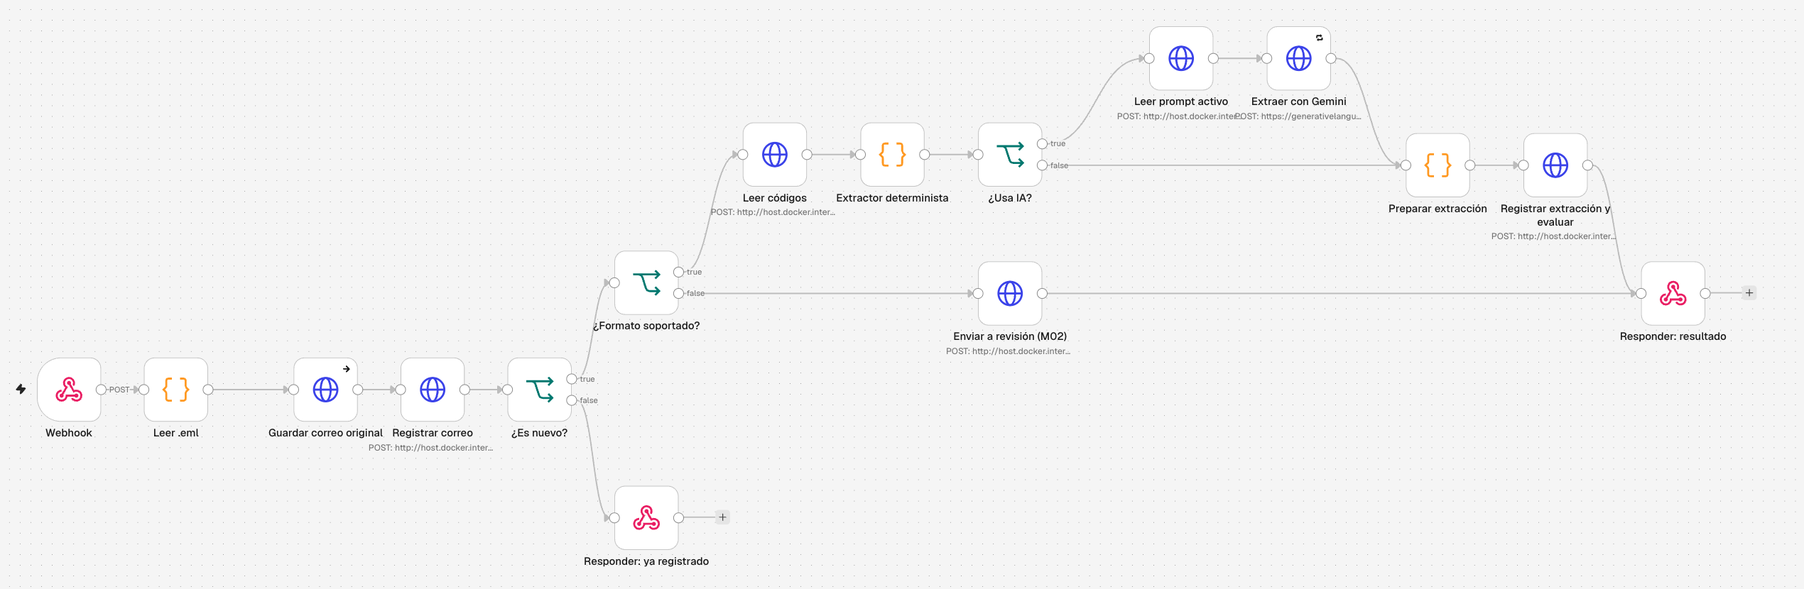
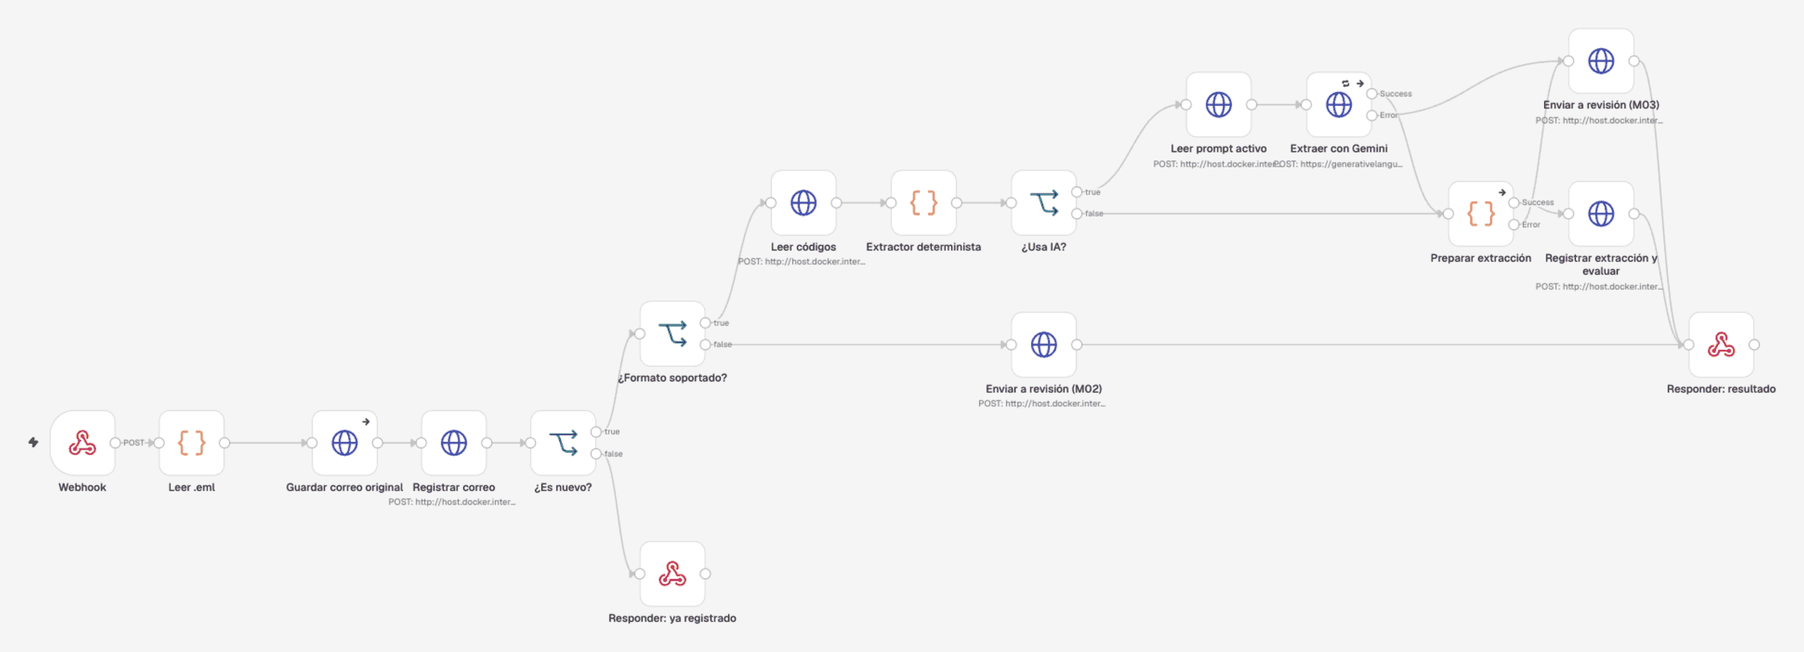
Publish the clean v1.1 pass and report Gemini outages separately

diff --git a/site/index.html b/site/index.html
@@ -317,7 +317,7 @@ footer li span { display: block; color: #DCE8E9; font-size: 1rem; }
         <figcaption><strong>Un pedido dudoso.</strong> Es el mismo del principio: la persona ve la frase del cliente y elige.</figcaption>
       </figure>
       <figure class="miniatura">
-        <a href="img/flujo-n8n.png"><img src="img/flujo-n8n.png" width="2540" height="830" loading="lazy" alt="Flujo de n8n, del correo al resultado. Abre la imagen a tamaño completo."></a>
+        <a href="img/flujo-n8n.png"><img src="img/flujo-n8n.png" width="2540" height="919" loading="lazy" alt="Flujo de n8n, del correo al resultado. Abre la imagen a tamaño completo."></a>
         <figcaption><strong>El flujo en n8n.</strong> La evaluación entra por este mismo flujo. <a href="img/flujo-n8n.png">Ver a tamaño completo</a></figcaption>
       </figure>
     </div>
@@ -335,16 +335,16 @@ footer li span { display: block; color: #DCE8E9; font-size: 1rem; }
       </ul>
       <svg class="grafico" height="246" role="img" aria-labelledby="gt gd">
         <title id="gt">Resultados de los 20 correos por configuración</title>
-        <desc id="gd">Solo reglas: 7 OK, 5 ACEPTABLE, 8 FALLO. Solo IA: 15 OK, 1 ACEPTABLE, 4 FALLO. Híbrido: 15 OK, 4 ACEPTABLE, 1 FALLO.</desc>
+        <desc id="gd">Solo reglas: 7 OK, 5 ACEPTABLE, 8 FALLO. Solo IA: 19 OK, 1 ACEPTABLE, 0 FALLO. Híbrido: 16 OK, 4 ACEPTABLE, 0 FALLO.</desc>
         <g font-size="17" font-weight="700" fill="#14272E"><text x="0" y="18" class="rotulo">Solo reglas</text><text x="0" y="102" class="rotulo">Solo IA</text><text x="0" y="186" class="rotulo">Híbrido</text></g>
         <g stroke="#E7ECEB" stroke-width="2">
           <rect x="0" y="28" width="35%" height="36" fill="#0E74A8"/><rect x="35%" y="28" width="25%" height="36" fill="#C98315"/><rect x="60%" y="28" width="40%" height="36" fill="#B3261E"/>
-          <rect x="0" y="112" width="75%" height="36" fill="#0E74A8"/><rect x="75%" y="112" width="5%" height="36" fill="#C98315"/><rect x="80%" y="112" width="20%" height="36" fill="#B3261E"/>
-          <rect x="0" y="196" width="75%" height="36" fill="#0E74A8"/><rect x="75%" y="196" width="20%" height="36" fill="#C98315"/><rect x="95%" y="196" width="5%" height="36" fill="#B3261E"/>
+          <rect x="0" y="112" width="95%" height="36" fill="#0E74A8"/><rect x="95%" y="112" width="5%" height="36" fill="#C98315"/>
+          <rect x="0" y="196" width="80%" height="36" fill="#0E74A8"/><rect x="80%" y="196" width="20%" height="36" fill="#C98315"/>
         </g>
         <g font-size="17" font-weight="700" text-anchor="middle">
-          <g fill="#fff"><text x="17.5%" y="52">7</text><text x="80%" y="52">8</text><text x="37.5%" y="136">15</text><text x="90%" y="136">4</text><text x="37.5%" y="220">15</text><text x="97.5%" y="220">1</text></g>
-          <g fill="#14272E"><text x="47.5%" y="52">5</text><text x="77.5%" y="136">1</text><text x="85%" y="220">4</text></g>
+          <g fill="#fff"><text x="17.5%" y="52">7</text><text x="80%" y="52">8</text><text x="47.5%" y="136">19</text><text x="40%" y="220">16</text></g>
+          <g fill="#14272E"><text x="47.5%" y="52">5</text><text x="97.5%" y="136">1</text><text x="90%" y="220">4</text></g>
         </g>
       </svg>
       <div class="desliza" tabindex="0" role="region" aria-label="Tabla de resultados">
@@ -352,17 +352,17 @@ footer li span { display: block; color: #DCE8E9; font-size: 1rem; }
         <thead><tr><th scope="col">Configuración</th><th scope="col" class="num">OK</th><th scope="col" class="num">ACEPTABLE</th><th scope="col" class="num">FALLO</th><th scope="col" class="num">Automáticos erróneos o indebidos</th></tr></thead>
         <tbody>
           <tr><th scope="row">Solo reglas</th><td class="num">7</td><td class="num">5</td><td class="num">8</td><td class="num">8 de 11</td></tr>
-          <tr><th scope="row">Solo IA</th><td class="num">15</td><td class="num">1</td><td class="num">4</td><td class="num">0 de 9</td></tr>
-          <tr><th scope="row">Híbrido</th><td class="num">15</td><td class="num">4</td><td class="num">1</td><td class="num">0 de 8</td></tr>
+          <tr><th scope="row">Solo IA</th><td class="num">19</td><td class="num">1</td><td class="num">0</td><td class="num">0 de 12</td></tr>
+          <tr><th scope="row">Híbrido</th><td class="num">16</td><td class="num">4</td><td class="num">0</td><td class="num">0 de 9</td></tr>
         </tbody>
       </table>
       </div>
       <p class="nota">ACEPTABLE es una salida segura que no era la esperada: el caso llega a una persona. La última columna son pedidos creados sin intervención con algún error, o que tenían que ir a revisión.</p>
       <ul>
         <li><strong>Las reglas solas no valen.</strong> Dejan líneas fuera y crean el pedido sin avisar.</li>
-        <li><strong>Cuando la IA contesta, sola sale algo mejor que el híbrido.</strong> El segundo lector no evitó ningún pedido equivocado y costó tres revisiones de más. Es el precio de un seguro, y con tan pocos casos no se sabe si compensa.</li>
-        <li><strong>Los 5 FALLO con IA son caídas de Gemini</strong> (saturado, error 503), no lecturas equivocadas: los cinco correos quedaron en la cola. En una pasada anterior fueron 10, y también se publica.</li>
+        <li><strong>En estos casos, solo IA sale algo mejor que el híbrido.</strong> El segundo lector no evitó ningún pedido equivocado y costó tres revisiones de más. Es el precio de un seguro, y con tan pocos casos no se sabe si compensa.</li>
         <li><strong>El caso que fallaba en la v1 ya no falla:</strong> un cliente que corrige el código de un producto a mitad de línea. Solo IA crea el pedido correcto; el híbrido lo manda a una persona.</li>
+        <li><strong>Con Gemini caído, los pedidos llegan a la cola.</strong> En dos pasadas anteriores, con el servicio saturado, 15 casos acabaron así y ninguno creó un pedido.</li>
       </ul>
       <p><a href="https://github.com/davidlarre/b2b-order-intake-automation-case-study/blob/main/eval/resultados-v1-1.md">Resultados v1.1, caso a caso</a> · <a href="https://github.com/davidlarre/b2b-order-intake-automation-case-study/blob/main/eval/resultados-v1.md">Resultados v1, con los fallos uno a uno</a></p>
     </div>
@@ -374,9 +374,9 @@ footer li span { display: block; color: #DCE8E9; font-size: 1rem; }
     <h2>Los límites</h2>
     <div class="texto">
       <ul>
-        <li><strong>Son 20 correos de desarrollo.</strong> 7 sirvieron para construir el sistema y 13 se escribieron conociéndolo. No hay un conjunto de prueba guardado aparte. Con 0 errores en 8 pedidos automáticos, el error real podría llegar al 38 %.</li>
+        <li><strong>Son 20 correos de desarrollo.</strong> 7 sirvieron para construir el sistema y 13 se escribieron conociéndolo. No hay un conjunto de prueba guardado aparte. Con 0 errores en 9 pedidos automáticos, el error real podría llegar a 1 de cada 3.</li>
         <li><strong>Los 13 correos nuevos y sus etiquetas los escribió una IA (Claude).</strong> Una segunda instancia de Claude, que no las escribió, revisó las 13 etiquetas, sin cambios. Todavía no hay revisión humana.</li>
-        <li><strong>Faltan piezas.</strong> Distinguir un pedido de una consulta, detectar duplicados, comprobar cajas y unidades, leer PDF y enviar respuestas al cliente. Hoy, una consulta con código y cantidad podría acabar en pedido.</li>
+        <li><strong>Faltan piezas.</strong> Distinguir un pedido de una consulta, detectar duplicados, comprobar cajas y unidades, leer PDF y enviar respuestas al cliente. Hoy, una consulta con código y cantidad podría acabar en pedido. Y si la IA no responde, el sistema no lo reintenta más tarde: el pedido se queda en la cola.</li>
         <li><strong>El ahorro no está demostrado.</strong> Depende de cuánto se tarde en revisar cada pedido dudoso, y eso solo lo dice un piloto con el equipo.</li>
       </ul>
     </div>

diff --git a/eval/resultados-v1-1.md b/eval/resultados-v1-1.md
@@ -9,50 +9,48 @@
 
 ## Resumen
 
-Pasada 2, completa. Es la que se publica como v1.1 (ver [las dos pasadas](#las-dos-pasadas)).
+Es la pasada 3, la **pasada limpia**: las tres configuraciones de una vez y ningún caso en M03 (ver [qué pasada se publica](#qué-pasada-se-publica)).
 
-| Configuración | OK | ACEPTABLE | FALLO | De ellos, M03 | Pedidos automáticos | Automáticos erróneos o indebidos |
+| Configuración | OK | ACEPTABLE | FALLO | M03 (servicio caído) | Pedidos automáticos | Automáticos erróneos o indebidos |
 |---|---|---|---|---|---|---|
 | Solo reglas | 7 | 5 | 8 | 0 | 11 | **8** |
-| Solo IA | 15 | 1 | 4 | 4 | 9 | **0** |
-| Híbrido | 15 | 4 | 1 | 1 | 8 | **0** |
+| Solo IA | 19 | 1 | 0 | 0 | 12 | **0** |
+| Híbrido | 16 | 4 | 0 | 0 | 9 | **0** |
 
 En la v1:
 
-| Configuración | OK | ACEPTABLE | FALLO | De ellos, M03 | Pedidos automáticos | Automáticos erróneos o indebidos |
+| Configuración | OK | ACEPTABLE | FALLO | M03 (servicio caído) | Pedidos automáticos | Automáticos erróneos o indebidos |
 |---|---|---|---|---|---|---|
 | Solo reglas | 7 | 5 | 8 | 0 | 11 | **8** |
 | Solo IA | 18 | 1 | 1 | 0 | 11 | **0** |
 | Híbrido | 16 | 3 | 1 | 0 | 9 | **0** |
 
-OK, ACEPTABLE y FALLO significan lo mismo que en la [v1](resultados-v1.md#resumen). Un M03 cuenta como FALLO aunque el caso llegue a una persona: las etiquetas no lo preveían y no se han cambiado.
+OK, ACEPTABLE y FALLO significan lo mismo que en la [v1](resultados-v1.md#resumen). M03 va en su propia columna: el servicio no respondió, y el caso llegó a una persona.
 
 ## Qué se puede concluir
 
-1. **El caso 16 ya no falla.** Con solo IA crea el pedido correcto (TUE-M10-ZN × 400). En el híbrido va a revisión solo con R12, porque el determinista sigue leyendo el código sin corregir: es ACEPTABLE. Ha salido igual en las dos pasadas.
-2. **Los 5 FALLO con IA son M03:** Gemini respondió "503, alta demanda" y se agotaron los reintentos (4 en solo IA y 1 en el híbrido). Antes, esos correos habrían parado el flujo; ahora los cinco están en la cola.
-3. **En las 31 llamadas que Gemini contestó, de 36, no hay ningún FALLO.**
-4. **Los totales no son directamente comparables con la v1:** entonces Gemini no falló en esa pasada. La peor cifra de OK de la v1.1 (solo IA, 15 frente a 18) sale de los 503; el caso 16, en cambio, mejora. Por eso se compara caso a caso.
-5. **Solo reglas no cambia:** no usa la IA, y los 20 casos salen igual.
+1. **El caso 16 ya no falla.** Con solo IA crea el pedido correcto (TUE-M10-ZN × 400). En el híbrido va a revisión solo con R12, porque el determinista sigue leyendo el código sin corregir: es ACEPTABLE. Ha salido igual en las tres pasadas.
+2. **Es el único cambio.** Los demás casos salen como en la v1 en las tres configuraciones.
+3. **"Solo IA" sigue saliendo mejor que el híbrido:** 06, 15 y 16 son tres revisiones que no hacían falta, y R12 no evitó ningún pedido equivocado. Lo dicho en la [v1](resultados-v1.md#qué-se-puede-concluir) sobre esa red se mantiene.
 
 ## Comparación con la v1, caso a caso
 
-v1 → v1.1 (pasada 2). "Igual" quiere decir misma nota, misma salida y mismos motivos.
+v1 → v1.1. "Igual" quiere decir misma nota, misma salida y mismos motivos.
 
 | Correo | Solo reglas | Solo IA | Híbrido |
 |---|---|---|---|
 | 01-automatico | igual: **FALLO** · automático | igual: OK · automático | igual: OK · automático |
 | 02-remitente-desconocido | igual: OK · revisión R02 | igual: OK · revisión R02 | igual: OK · revisión R02 |
-| 03-precio-distinto | igual: **FALLO** · automático | OK · revisión R11 → **FALLO** · revisión M03 | igual: OK · revisión R11 |
+| 03-precio-distinto | igual: **FALLO** · automático | igual: OK · revisión R11 | igual: OK · revisión R11 |
 | 04-excel-xlsx | igual: OK · automático | igual: OK · automático | igual: OK · automático |
 | 05-excel-xls | igual: OK · revisión M02 | igual: OK · revisión M02 | igual: OK · revisión M02 |
 | 06-discrepancia | igual: **FALLO** · automático | igual: OK · automático | igual: ACEPTABLE · revisión R12 |
 | 07-adjunto-sin-adjunto | igual: ACEPTABLE · revisión M01 | igual: ACEPTABLE · revisión M01 | igual: ACEPTABLE · revisión M01 |
-| 08-texto-catalan | igual: OK · automático | OK · automático → **FALLO** · revisión M03 | igual: OK · automático |
-| 09-equivalencias | igual: ACEPTABLE · revisión M01 | OK · automático → **FALLO** · revisión M03 | igual: OK · automático |
+| 08-texto-catalan | igual: OK · automático | igual: OK · automático | igual: OK · automático |
+| 09-equivalencias | igual: ACEPTABLE · revisión M01 | igual: OK · automático | igual: OK · automático |
 | 10-punto-de-miles | igual: **FALLO** · automático | igual: OK · automático | igual: OK · automático |
 | 11-multiplicacion | igual: **FALLO** · automático | igual: OK · automático | igual: OK · automático |
-| 12-excel-con-precios | igual: OK · automático | OK · automático → **FALLO** · revisión M03 | OK · automático → **FALLO** · revisión M03 |
+| 12-excel-con-precios | igual: OK · automático | igual: OK · automático | igual: OK · automático |
 | 13-excel-cabeceras-raras | igual: ACEPTABLE · revisión M01 | igual: OK · automático | igual: OK · automático |
 | 14-excel-unidad-en-celda | igual: **FALLO** · automático | igual: OK · automático | igual: OK · automático |
 | 15-discrepancia-excel-cuerpo | igual: **FALLO** · automático | igual: OK · automático | igual: ACEPTABLE · revisión R12 |
@@ -62,40 +60,63 @@ v1 → v1.1 (pasada 2). "Igual" quiere decir misma nota, misma salida y mismos m
 | 19-pdf | igual: OK · revisión M02 | igual: OK · revisión M02 | igual: OK · revisión M02 |
 | 20-consulta-sin-cantidad | igual: OK · revisión M01 | igual: OK · revisión M01 | igual: OK · revisión M01 |
 
-## Las dos pasadas
+## Qué pasada se publica
 
-**Pasada 1.** Gemini estaba saturado: 10 casos acabaron en M03, todos por 503. Además, `enviar_eml.py` esperaba 120 s y el flujo puede tardar unos 190 s en agotar los tres intentos: en el caso 07 del híbrido el script se cortó y su resultado (M03) se ha leído de la base de datos. El resto de los casos se ejecutó.
+**La regla:** la cabecera es una pasada limpia, es decir, los 20 casos en las tres configuraciones sin que ningún caso acabe en M03. Antes se comprueba con una sola petición que Gemini responde. Si una pasada no es limpia, se anota y se repite entera, hasta tres intentos; nunca se repiten solo los casos que fallaron. Si ninguna lo es, se sigue publicando la v1.
 
-| Configuración | OK | ACEPTABLE | FALLO | De ellos, M03 | Pedidos automáticos | Automáticos erróneos o indebidos |
+**Por qué se cambió.** Las dos primeras pasadas coincidieron con Gemini saturado, y la regla de entonces era publicar la segunda, saliera lo que saliera. Esa tabla mezclaba dos cosas: cómo lee el sistema y si el servicio estaba disponible. El autor pidió separarlas antes de publicar, con los resultados de las dos pasadas ya a la vista. La regla nueva se fijó antes de ejecutar la pasada 3, que fue limpia a la primera.
+
+**Lo que no se puede asegurar:** que en la pasada 3 no hubiera ningún 503. El nodo reintenta hasta tres veces y no guarda los intentos fallidos. De los 36 casos con IA, 15 tardaron más de 7 s y el resto menos de 5, lo que apunta a reintentos que acabaron respondiendo. Un reintento no cambia lo que se lee ni cómo se evalúa.
+
+## Comportamiento con Gemini caído
+
+Las pasadas 1 y 2, con el mismo sistema y Gemini saturado (503). Solo reglas no usa la IA y salió como en la v1.
+
+- **15 casos acabaron en M03** de los 72 que llaman a la IA: 10 en la pasada 1 y 5 en la 2.
+- **Ninguno creó un pedido,** así que ninguno creó uno erróneo. Tampoco hubo ningún pedido erróneo en los demás casos con IA.
+- **Los 15 llegaron a la cola:** están en `en_revision` con M03 abierto, comprobado en la base de datos.
+- **Cuando Gemini contestó, no hubo ningún FALLO.**
+
+Pasada 1:
+
+| Configuración | OK | ACEPTABLE | FALLO | M03 (servicio caído) | Pedidos automáticos | Automáticos erróneos o indebidos |
 |---|---|---|---|---|---|---|
-| Solo reglas | 7 | 5 | 8 | 0 | 11 | **8** |
-| Solo IA | 17 | 1 | 2 | 2 | 10 | **0** |
-| Híbrido | 10 | 2 | 8 | 8 | 5 | **0** |
+| Solo IA | 17 | 1 | 0 | 2 | 10 | **0** |
+| Híbrido | 10 | 2 | 0 | 8 | 5 | **0** |
 
-**Pasada 2.** Solo cambia la espera del script, a 240 s. La decisión de publicar la segunda como cabecera, saliera lo que saliera, se tomó con la primera a medias (vista solo IA entera y el híbrido hasta el caso 07, con 4 M03) y antes de empezar la segunda. No hubo una tercera.
+Pasada 2:
 
-| Correo (pasada 1) | Solo IA | Híbrido |
-|---|---|---|
-| 01-automatico | OK · automático | OK · automático |
-| 02-remitente-desconocido | OK · revisión R02 | OK · revisión R02 |
-| 03-precio-distinto | OK · revisión R11 | **FALLO** · revisión M03 |
-| 04-excel-xlsx | **FALLO** · revisión M03 | OK · automático |
-| 05-excel-xls | OK · revisión M02 | OK · revisión M02 |
-| 06-discrepancia | OK · automático | ACEPTABLE · revisión R12 |
-| 07-adjunto-sin-adjunto | ACEPTABLE · revisión M01 | **FALLO** · revisión M03 |
-| 08-texto-catalan | OK · automático | **FALLO** · revisión M03 |
-| 09-equivalencias | OK · automático | OK · automático |
-| 10-punto-de-miles | OK · automático | **FALLO** · revisión M03 |
-| 11-multiplicacion | **FALLO** · revisión M03 | OK · automático |
-| 12-excel-con-precios | OK · automático | **FALLO** · revisión M03 |
-| 13-excel-cabeceras-raras | OK · automático | OK · automático |
-| 14-excel-unidad-en-celda | OK · automático | **FALLO** · revisión M03 |
-| 15-discrepancia-excel-cuerpo | OK · automático | **FALLO** · revisión M03 |
-| 16-discrepancia-codigo | OK · automático | ACEPTABLE · revisión R12 |
-| 17-solo-descripcion | OK · revisión R08 | **FALLO** · revisión M03 |
-| 18-codigo-inexistente | OK · pedir datos R08 | OK · pedir datos R08 |
-| 19-pdf | OK · revisión M02 | OK · revisión M02 |
-| 20-consulta-sin-cantidad | OK · revisión M01 | OK · revisión M01 |
+| Configuración | OK | ACEPTABLE | FALLO | M03 (servicio caído) | Pedidos automáticos | Automáticos erróneos o indebidos |
+|---|---|---|---|---|---|---|
+| Solo IA | 15 | 1 | 0 | 4 | 9 | **0** |
+| Híbrido | 15 | 4 | 0 | 1 | 8 | **0** |
+
+En la pasada 1, `enviar_eml.py` esperaba 120 s y el flujo puede tardar unos 190 s en agotar los tres intentos: en el caso 07 del híbrido el script se cortó, y su resultado (M03) se ha leído de la base de datos. Después, la espera es de 240 s.
+
+| Correo | Pasada 1, solo IA | Pasada 1, híbrido | Pasada 2, solo IA | Pasada 2, híbrido |
+|---|---|---|---|---|
+| 01-automatico | OK · automático | OK · automático | OK · automático | OK · automático |
+| 02-remitente-desconocido | OK · revisión R02 | OK · revisión R02 | OK · revisión R02 | OK · revisión R02 |
+| 03-precio-distinto | OK · revisión R11 | M03 | M03 | OK · revisión R11 |
+| 04-excel-xlsx | M03 | OK · automático | OK · automático | OK · automático |
+| 05-excel-xls | OK · revisión M02 | OK · revisión M02 | OK · revisión M02 | OK · revisión M02 |
+| 06-discrepancia | OK · automático | ACEPTABLE · revisión R12 | OK · automático | ACEPTABLE · revisión R12 |
+| 07-adjunto-sin-adjunto | ACEPTABLE · revisión M01 | M03 | ACEPTABLE · revisión M01 | ACEPTABLE · revisión M01 |
+| 08-texto-catalan | OK · automático | M03 | M03 | OK · automático |
+| 09-equivalencias | OK · automático | OK · automático | M03 | OK · automático |
+| 10-punto-de-miles | OK · automático | M03 | OK · automático | OK · automático |
+| 11-multiplicacion | M03 | OK · automático | OK · automático | OK · automático |
+| 12-excel-con-precios | OK · automático | M03 | M03 | M03 |
+| 13-excel-cabeceras-raras | OK · automático | OK · automático | OK · automático | OK · automático |
+| 14-excel-unidad-en-celda | OK · automático | M03 | OK · automático | OK · automático |
+| 15-discrepancia-excel-cuerpo | OK · automático | M03 | OK · automático | ACEPTABLE · revisión R12 |
+| 16-discrepancia-codigo | OK · automático | ACEPTABLE · revisión R12 | OK · automático | ACEPTABLE · revisión R12 |
+| 17-solo-descripcion | OK · revisión R08 | M03 | OK · revisión R08 | OK · revisión R08 |
+| 18-codigo-inexistente | OK · pedir datos R08 | OK · pedir datos R08 | OK · pedir datos R08 | OK · pedir datos R08 |
+| 19-pdf | OK · revisión M02 | OK · revisión M02 | OK · revisión M02 | OK · revisión M02 |
+| 20-consulta-sin-cantidad | OK · revisión M01 | OK · revisión M01 | OK · revisión M01 | OK · revisión M01 |
+
+En las salidas del script, al final, un M03 aparece como FALLO: las etiquetas no lo prevén y no se han cambiado.
 
 ## Prueba de M03
 
@@ -112,19 +133,101 @@ Con el correo 01 y un fallo forzado cada vez. Los siete casos quedaron en `en_re
 
 Con el modelo inexistente, solo reglas siguió creando su pedido: no llama a la IA.
 
+Así lo ve la gestora:
+
+![Caso M03 en la app: no se ha podido leer el correo por un fallo técnico, con los botones de tecleado y descartar](../docs/img/app-fallo-tecnico.png)
+
 ## Limitaciones
 
 Las de la [v1](resultados-v1.md#limitaciones), y además:
 
 - **La regla nueva salió de un caso de este mismo conjunto.** Que el 16 mejore es lo esperable, no una prueba de que generalice.
-- **Con 0 errores, la regla del 3 da** 3/9 ≈ 33 % en solo IA y 3/8 ≈ 38 % en el híbrido.
-- **M03 no distingue una caída general de un caso raro.** El diseño ([04, sección 2.6](../docs/04-solution-design.md#26-fallos-técnicos-caída-general-y-modo-manual)) reintenta más tarde en una caída general; la v1.1 manda el caso a una persona. Una respuesta no válida no se reintenta.
+- **Con 0 errores, la regla del 3 da** 3/12 = 25 % en solo IA y 3/9 ≈ 33 % en el híbrido.
+- **La cabecera mide la lectura, no la disponibilidad.** Con el servicio saturado, más casos van a una persona: 5 y 10 en las pasadas anteriores.
+- **M03 no reintenta más tarde ni distingue una caída general de un caso raro.** El diseño ([04, sección 2.6](../docs/04-solution-design.md#26-fallos-técnicos-caída-general-y-modo-manual)) sí lo prevé. Una respuesta no válida tampoco se reintenta.
 
 ## Cómo se ejecutó
 
-- **Sistema:** modelo `gemini-3.5-flash-lite`; prompt `extraccion` con hash `ea73c9fd7c06…`; extractor determinista 0.1.1. El prompt, el flujo y las reglas no cambiaron entre las dos pasadas.
+- **Sistema:** modelo `gemini-3.5-flash-lite`; prompt `extraccion` con hash `ea73c9fd7c06…`; extractor determinista 0.1.1. El prompt, el flujo y las reglas no cambiaron entre las tres pasadas. En la 3, 36 llamadas a la IA contestadas, con 321 tokens de entrada y 131 de salida de media.
 - **Versión del prompt:** "v3" es su tercera versión en la historia del repo. En la base local, reiniciada para la demo, es la 2: lo que identifica a un prompt es su hash.
 - **Comando:** el de la [v1](resultados-v1.md#cómo-se-ejecutó), sin reiniciar la base, con `--nuevos`.
+
+<details>
+<summary>Salida de <code>scripts/enviar_eml.py</code>, pasada 3 (la publicada)</summary>
+
+```
+Configuración: solo_reglas
+01-automatico.eml                caso  499  automatico  pedido  167  motivos -  FALLO: faltan TOR-M8X30-ZN x1000
+02-remitente-desconocido.eml     caso  500  revision    pedido    -  motivos R02  OK
+03-precio-distinto.eml           caso  501  automatico  pedido  168  motivos -  FALLO: salida automatico, esperada revision; motivos -, esperados R11
+Configuración: solo_reglas
+04-excel-xlsx.eml                caso  502  automatico  pedido  169  motivos -  OK
+05-excel-xls.eml                 caso  503  revision    pedido    -  motivos M02  OK
+06-discrepancia.eml              caso  504  automatico  pedido  170  motivos -  FALLO: faltan TUE-M8-ZN x1200; sobran TUE-M8-ZN x1000
+07-adjunto-sin-adjunto.eml       caso  505  revision    pedido    -  motivos M01  ACEPTABLE (salida segura; esperado pedir_datos)
+Configuración: solo_reglas
+08-texto-catalan.eml             caso  506  automatico  pedido  171  motivos -  OK
+09-equivalencias.eml             caso  507  revision    pedido    -  motivos M01  ACEPTABLE (salida segura; esperado automatico)
+10-punto-de-miles.eml            caso  508  automatico  pedido  172  motivos -  FALLO: faltan TOR-M8X30-ZN x1000
+11-multiplicacion.eml            caso  509  automatico  pedido  173  motivos -  FALLO: faltan TOR-M10X40-ZN x1000
+12-excel-con-precios.eml         caso  510  automatico  pedido  174  motivos -  OK
+13-excel-cabeceras-raras.eml     caso  511  revision    pedido    -  motivos M01  ACEPTABLE (salida segura; esperado automatico)
+14-excel-unidad-en-celda.eml     caso  512  automatico  pedido  175  motivos -  FALLO: faltan TOR-M8X30-ZN x200
+15-discrepancia-excel-cuerpo.eml caso  513  automatico  pedido  176  motivos -  FALLO: faltan TUE-M8-ZN x800; sobran TUE-M8-ZN x500
+16-discrepancia-codigo.eml       caso  514  automatico  pedido  177  motivos -  FALLO: faltan TUE-M10-ZN x400; sobran TUE-M8-ZN x400
+17-solo-descripcion.eml          caso  515  revision    pedido    -  motivos M01  ACEPTABLE (salida segura; esperado revision)
+18-codigo-inexistente.eml        caso  516  revision    pedido    -  motivos M01  ACEPTABLE (salida segura; esperado pedir_datos)
+19-pdf.eml                       caso  517  revision    pedido    -  motivos M02  OK
+20-consulta-sin-cantidad.eml     caso  518  revision    pedido    -  motivos M01  OK
+Configuración: solo_ia
+01-automatico.eml                caso  519  automatico  pedido  178  motivos -  OK
+02-remitente-desconocido.eml     caso  520  revision    pedido    -  motivos R02  OK
+03-precio-distinto.eml           caso  521  revision    pedido    -  motivos R11  OK
+Configuración: solo_ia
+04-excel-xlsx.eml                caso  522  automatico  pedido  179  motivos -  OK
+05-excel-xls.eml                 caso  523  revision    pedido    -  motivos M02  OK
+06-discrepancia.eml              caso  524  automatico  pedido  180  motivos -  OK
+07-adjunto-sin-adjunto.eml       caso  525  revision    pedido    -  motivos M01  ACEPTABLE (salida segura; esperado pedir_datos)
+Configuración: solo_ia
+08-texto-catalan.eml             caso  526  automatico  pedido  181  motivos -  OK
+09-equivalencias.eml             caso  527  automatico  pedido  182  motivos -  OK
+10-punto-de-miles.eml            caso  528  automatico  pedido  183  motivos -  OK
+11-multiplicacion.eml            caso  529  automatico  pedido  184  motivos -  OK
+12-excel-con-precios.eml         caso  530  automatico  pedido  185  motivos -  OK
+13-excel-cabeceras-raras.eml     caso  531  automatico  pedido  186  motivos -  OK
+14-excel-unidad-en-celda.eml     caso  532  automatico  pedido  187  motivos -  OK
+15-discrepancia-excel-cuerpo.eml caso  533  automatico  pedido  188  motivos -  OK
+16-discrepancia-codigo.eml       caso  534  automatico  pedido  189  motivos -  OK
+17-solo-descripcion.eml          caso  535  revision    pedido    -  motivos R08  OK
+18-codigo-inexistente.eml        caso  536  pedir_datos pedido    -  motivos R08  OK
+19-pdf.eml                       caso  537  revision    pedido    -  motivos M02  OK
+20-consulta-sin-cantidad.eml     caso  538  revision    pedido    -  motivos M01  OK
+Configuración: hibrido
+01-automatico.eml                caso  539  automatico  pedido  190  motivos -  OK
+02-remitente-desconocido.eml     caso  540  revision    pedido    -  motivos R02  OK
+03-precio-distinto.eml           caso  541  revision    pedido    -  motivos R11  OK
+Configuración: hibrido
+04-excel-xlsx.eml                caso  542  automatico  pedido  191  motivos -  OK
+05-excel-xls.eml                 caso  543  revision    pedido    -  motivos M02  OK
+06-discrepancia.eml              caso  544  revision    pedido    -  motivos R12  ACEPTABLE (salida segura; esperado automatico)
+07-adjunto-sin-adjunto.eml       caso  545  revision    pedido    -  motivos M01  ACEPTABLE (salida segura; esperado pedir_datos)
+Configuración: hibrido
+08-texto-catalan.eml             caso  546  automatico  pedido  192  motivos -  OK
+09-equivalencias.eml             caso  547  automatico  pedido  193  motivos -  OK
+10-punto-de-miles.eml            caso  548  automatico  pedido  194  motivos -  OK
+11-multiplicacion.eml            caso  549  automatico  pedido  195  motivos -  OK
+12-excel-con-precios.eml         caso  550  automatico  pedido  196  motivos -  OK
+13-excel-cabeceras-raras.eml     caso  551  automatico  pedido  197  motivos -  OK
+14-excel-unidad-en-celda.eml     caso  552  automatico  pedido  198  motivos -  OK
+15-discrepancia-excel-cuerpo.eml caso  553  revision    pedido    -  motivos R12  ACEPTABLE (salida segura; esperado automatico)
+16-discrepancia-codigo.eml       caso  554  revision    pedido    -  motivos R12  ACEPTABLE (salida segura; esperado automatico)
+17-solo-descripcion.eml          caso  555  revision    pedido    -  motivos R08  OK
+18-codigo-inexistente.eml        caso  556  pedir_datos pedido    -  motivos R08  OK
+19-pdf.eml                       caso  557  revision    pedido    -  motivos M02  OK
+20-consulta-sin-cantidad.eml     caso  558  revision    pedido    -  motivos M01  OK
+```
+
+</details>
 
 <details>
 <summary>Salida de <code>scripts/enviar_eml.py</code>, pasada 2</summary>

diff --git a/README.md b/README.md
@@ -37,19 +37,19 @@ Un distribuidor recibe unos 1.800 pedidos al mes por correo, en texto libre, Exc
 | Configuración | OK | ACEPTABLE | FALLO | Pedidos automáticos erróneos o indebidos |
 |---|---|---|---|---|
 | Solo reglas | 7 | 5 | 8 | 8 de 11 |
-| Solo IA | 15 | 1 | 4 | 0 de 9 |
-| Híbrido | 15 | 4 | 1 | 0 de 8 |
+| Solo IA | 19 | 1 | 0 | 0 de 12 |
+| Híbrido | 16 | 4 | 0 | 0 de 9 |
 
 **Qué cambió en la v1.1:** una regla del prompt para las correcciones del cliente, y un fallo de la IA manda el caso a la cola (M03); el vídeo no se ha tocado y muestra la [v1](eval/resultados-v1.md).
 
 ACEPTABLE es una salida segura que no era la esperada: el caso llega a una persona.
 
 - **Sin IA no basta:** un lector de reglas deja líneas fuera y crea el pedido igualmente.
-- **Los 5 FALLO con IA son M03:** Gemini estaba saturado (503) y los cinco correos quedaron en la cola. En la pasada anterior fueron 10; ambas están publicadas. El caso 16, que en la v1 fallaba, ya no falla.
-- **Cuando Gemini contesta, "solo IA" sale algo mejor que el híbrido.** El híbrido paga tres revisiones innecesarias por tener una segunda lectura. Esa red existe para cuando la IA lea mal, y en 20 casos no llegó a hacer falta.
-- **Son pocos casos, y de desarrollo.** Sin prueba congelada ni revisión humana de las etiquetas. Con 0 errores en 8 pedidos automáticos, el error real puede llegar a 3/8, un 38 %.
+- **En estos casos, "solo IA" sale algo mejor que el híbrido.** El híbrido paga tres revisiones innecesarias por tener una segunda lectura. Esa red existe para cuando la IA lea mal, y en 20 casos no llegó a hacer falta.
+- **Con Gemini caído, los casos llegan a la cola.** En dos pasadas anteriores, con el servicio saturado, 15 casos acabaron en la cola con M03 y ninguno creó un pedido ([detalle](eval/resultados-v1-1.md#comportamiento-con-gemini-caído)).
+- **Son pocos casos, y de desarrollo.** Sin prueba congelada ni revisión humana de las etiquetas. Con 0 errores en 9 pedidos automáticos, el error real puede llegar a 3/9, un 33 %.
 
-Los fallos, uno a uno, y las limitaciones: **[eval/resultados-v1-1.md](eval/resultados-v1-1.md)**, con la comparación caso a caso con los [resultados v1](eval/resultados-v1.md).
+Caso a caso, frente a la v1, y las limitaciones: **[eval/resultados-v1-1.md](eval/resultados-v1-1.md)**. Los fallos, uno a uno, en los [resultados v1](eval/resultados-v1.md).
 
 ## Arquitectura
 
@@ -112,6 +112,7 @@ Tests: `uv run pytest`, y `node --test` en `n8n/modulos/extractor` (tras `npx pn
 - **Faltan reglas:** R02, R08, R11 y parte de R12 están hechas. Faltan, entre otras, duplicados (R07), unidades y embalajes (R10) e importe máximo (R13).
 - **No lee Gmail ni envía correos.** Entra por un webhook de pruebas, y "pedir datos" queda registrado, pero no sale ningún correo.
 - **No aprueba precios por correo** y **no lee PDF** (van a revisión).
+- **Si falla la IA, no reintenta más tarde:** tras tres intentos seguidos, el caso se queda en la cola (M03) para una persona, y una caída general de Gemini no se distingue de un caso raro.
 - **No hay migración de datos maestros** (la Parte A): se arranca con 3 clientes y 10 productos limpios.
 
 ## Qué viene después

diff --git a/docs/caso.md b/docs/caso.md
@@ -24,19 +24,20 @@ Además, un segundo lector, más simple y sin IA, lee lo que puede. **Si los dos
 
 ## Los resultados
 
-Se probó con 20 correos, de tres maneras:
+Se probó con 20 correos, de tres maneras (v1.1):
 
 | | Bien | Seguro, pero no lo esperado | Mal | Pedidos automáticos erróneos |
 |---|---|---|---|---|
 | Solo reglas | 7 | 5 | 8 | 8 de 11 |
-| Solo IA | 18 | 1 | 1 | 0 de 11 |
-| **Las dos juntas** | 16 | 3 | 1 | 0 de 9 |
+| Solo IA | 19 | 1 | 0 | 0 de 12 |
+| **Las dos juntas** | 16 | 4 | 0 | 0 de 9 |
 
 - **Las reglas solas no valen:** dejan líneas fuera sin avisar.
-- **La IA leyó muy bien,** tanto que en estos 20 casos el segundo lector no llegó a evitar ningún error y costó dos revisiones de más. Es el precio de un seguro, y con tan pocos casos no se sabe todavía si compensa.
-- **El caso que salió mal** fue un cliente que corrige el *código* de un producto a mitad de línea. La IA no se aclaró. Con las dos juntas no se creó ningún pedido equivocado: acabó en manos de una persona.
+- **La IA leyó muy bien,** tanto que en estos 20 casos el segundo lector no llegó a evitar ningún error y costó tres revisiones de más. Es el precio de un seguro, y con tan pocos casos no se sabe todavía si compensa.
+- **El caso que salió mal en la v1** fue un cliente que corrige el *código* de un producto a mitad de línea: la IA no se aclaró. Con una regla nueva, la IA lo lee bien; con las dos juntas, el segundo lector no, y lo decide una persona.
+- **Si la IA no responde,** el pedido llega a una persona con el motivo. Pasó con 15 casos en dos pruebas con el servicio saturado, y ninguno creó un pedido. El sistema todavía no lo reintenta solo más tarde.
 
-Los fallos, uno a uno, en los [resultados](../eval/resultados-v1.md). Esta página cuenta la v1; la [v1.1](../eval/resultados-v1-1.md) corrige el caso que salió mal.
+El detalle está en los [resultados v1.1](../eval/resultados-v1-1.md), y los fallos de la primera versión, en los [resultados v1](../eval/resultados-v1.md). El vídeo muestra la v1.
 
 ## Los límites
 
